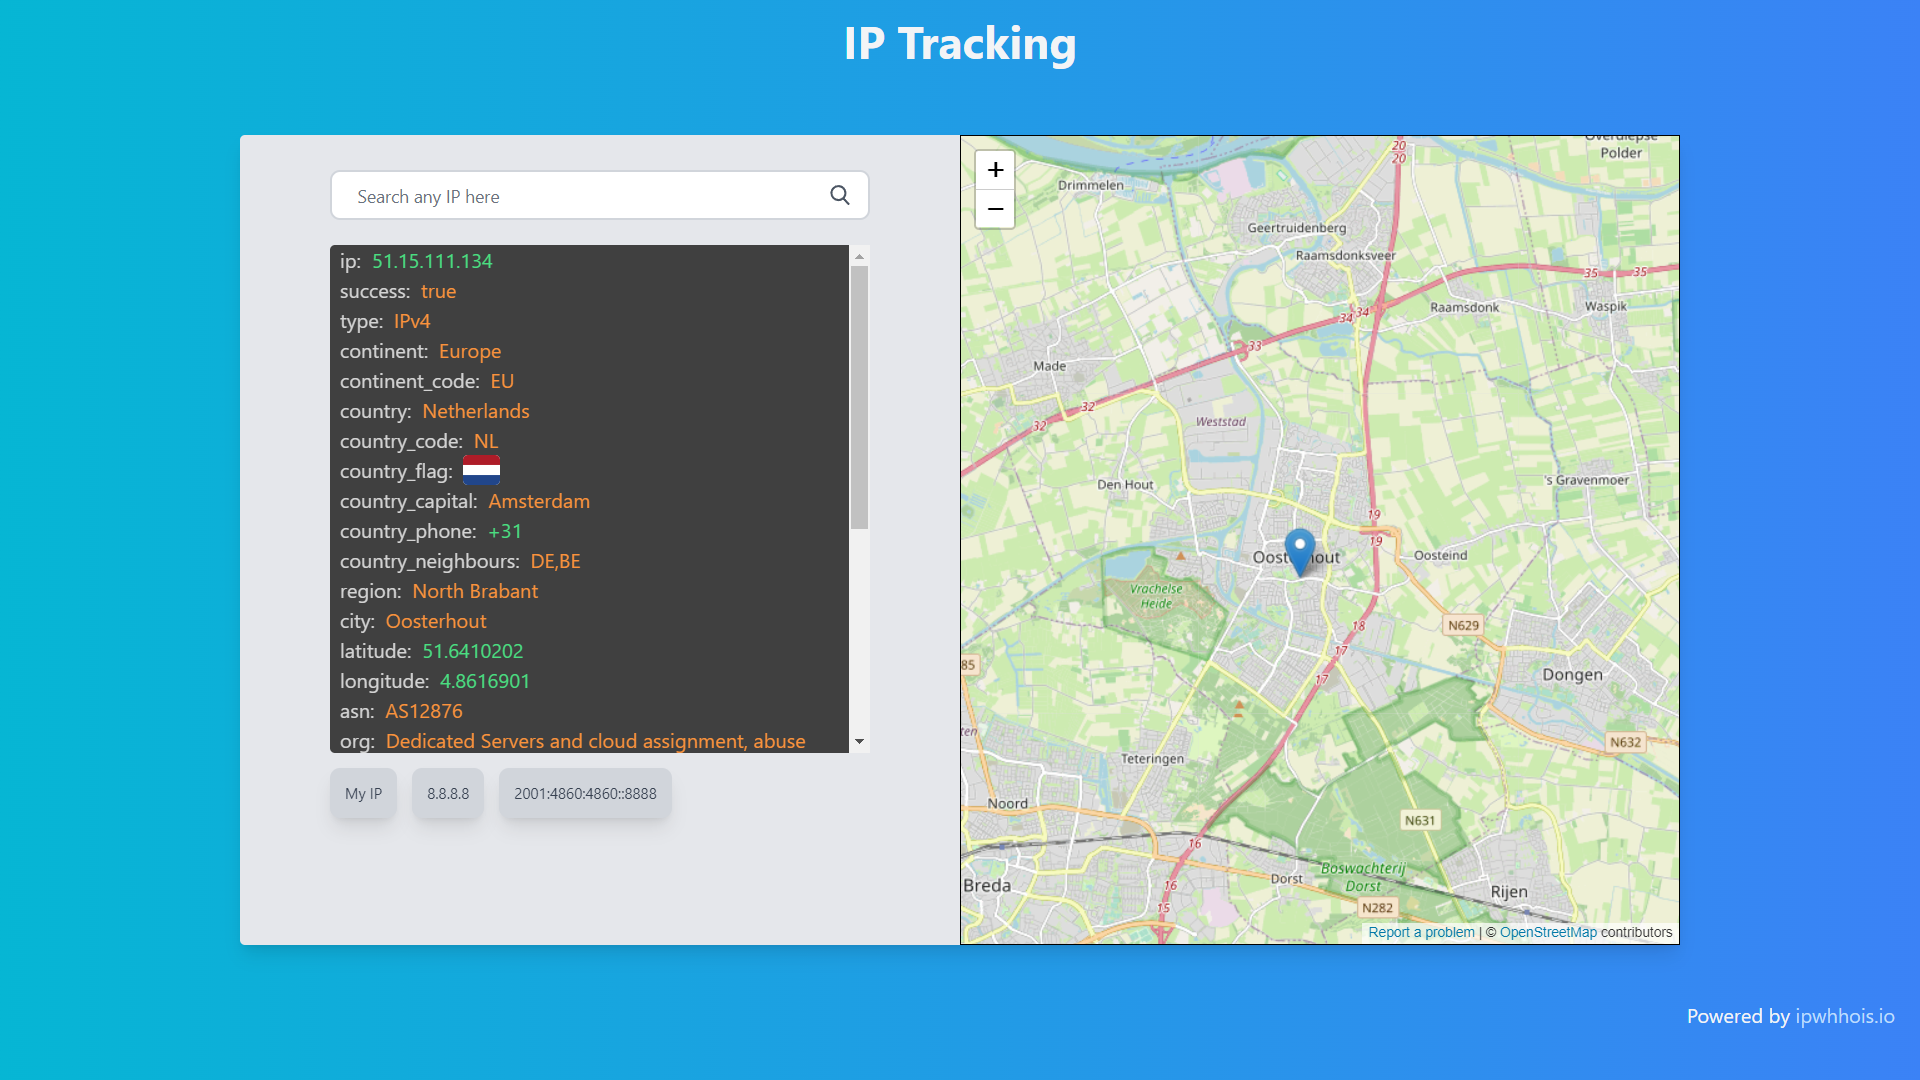
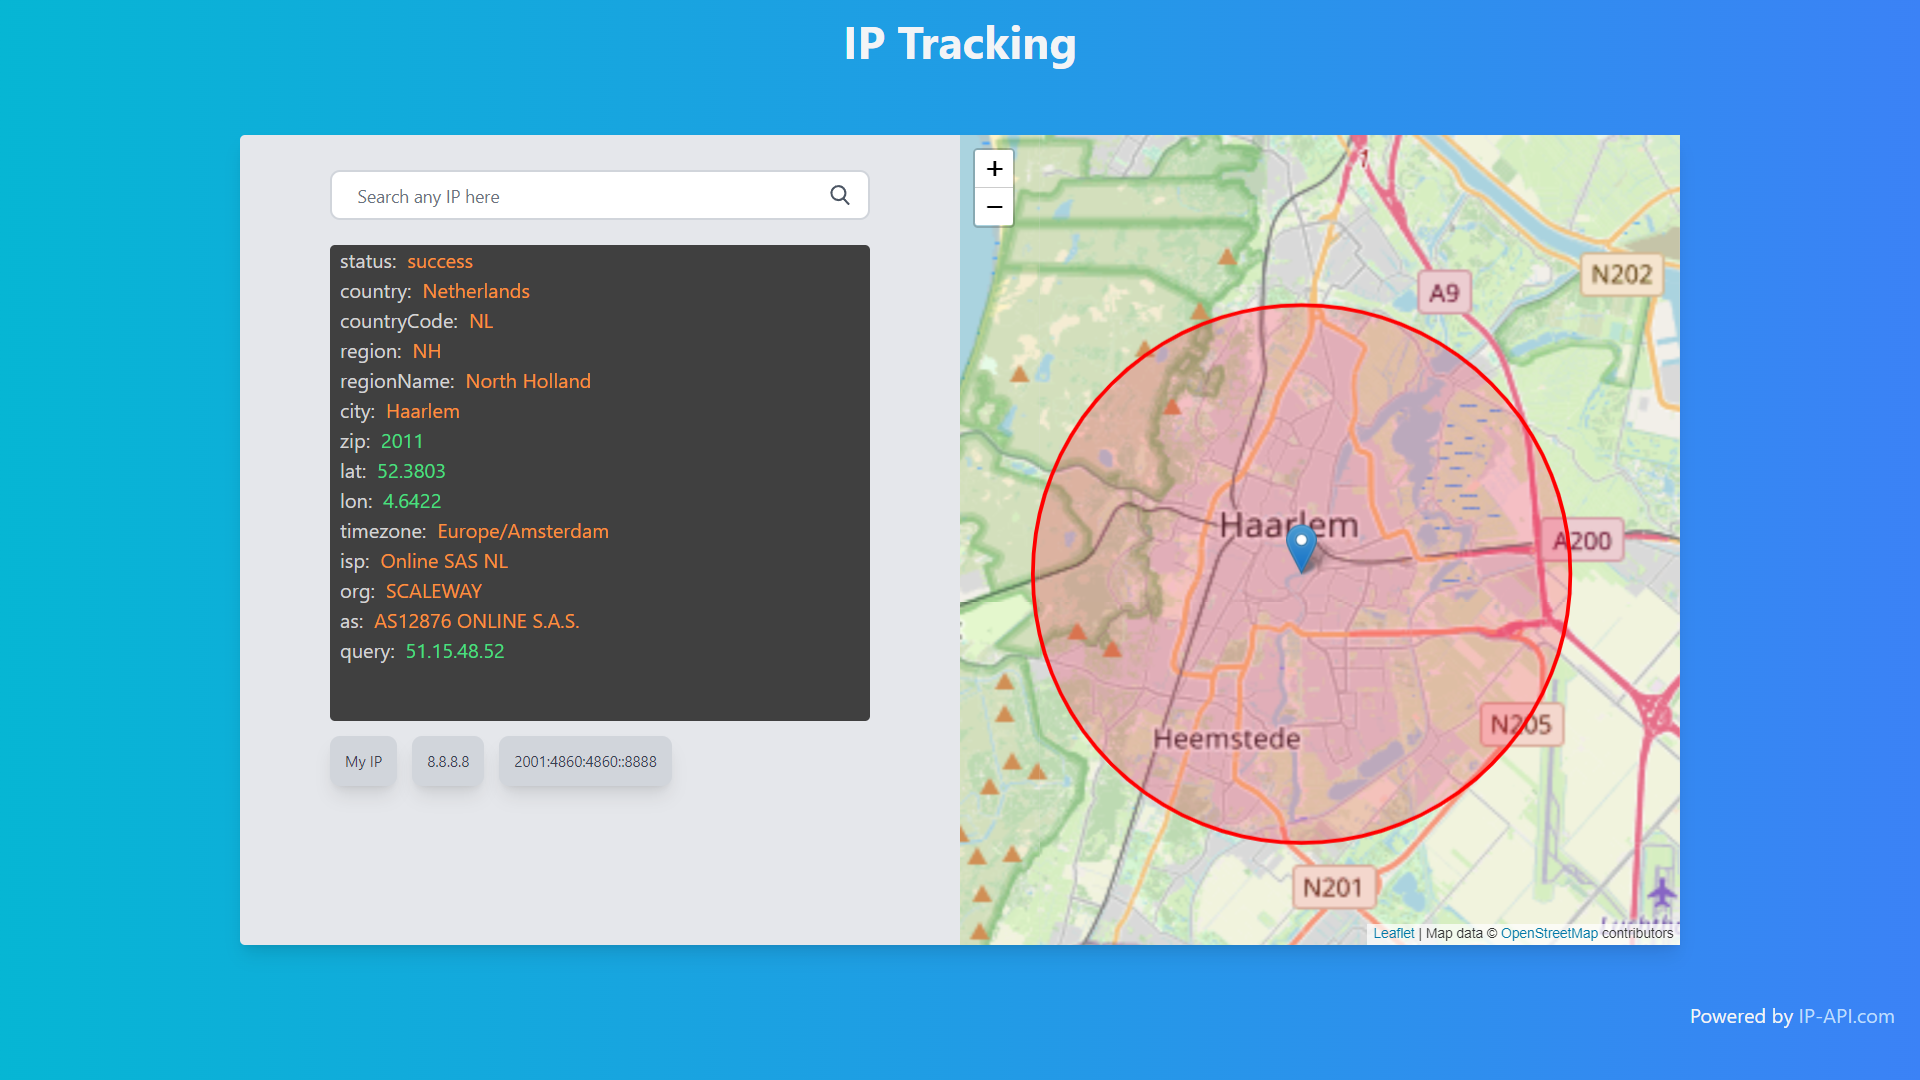
adding leaflet and removing ipwhois

Changed region(s): [[0.5, 0.1222, 0.875, 0.8861], [0.1562, 0.2139, 0.4688, 0.7639], [0.875, 0.9167, 1.0, 0.9472]]

diff --git a/src/views/HomeView.vue b/src/views/HomeView.vue
@@ -1,32 +1,49 @@
 <script setup>
 import { ref } from "vue";
+import L from "leaflet";
 
 let searchInput = ref("");
 let datas = ref("");
 let loading = ref(false);
-let longitude = ref("");
-let latitude = ref("");
 
 async function getData() {
   loading.value = true
-  const respone =  await fetch(`http://ipwhois.app/json/${searchInput.value}`, {
+  const respone =  await fetch(`http://ip-api.com/json/${searchInput.value}`, {
     method: "GET",
   })
   const data = await respone.json();
-  // console.log(data.longitude);
-  longitude.value = data.longitude;
-  latitude.value = data.latitude;
   datas.value = data;
   loading.value = false;
+
+  // MAP
+  mapFunc(data.lat, data.lon);
 }
 getData();
+
+function mapFunc(lat,lon){
+  var map = L.map('map').setView([lat,lon], 12);
+  // https://leafletjs.com/SlavaUkraini/reference.html#tilelayer
+  L.tileLayer('https://tile.openstreetmap.org/{z}/{x}/{y}.png', {
+    attribution: 'Map data &copy; <a href="https://www.openstreetmap.org/copyright">OpenStreetMap</a> contributors',
+    tileSize: 512,
+    zoomOffset: -1,
+  }).addTo(map);
+  var marker = L.marker([lat,lon]).addTo(map);
+  var circle = L.circle([lat,lon], {
+    color: 'red',
+    fillColor: '#f03',
+    fillOpacity: 0.2,
+    radius: 5000
+  }).addTo(map);
+}
 
 function btnGetdata(value){
   searchInput.value = value;
   getData();
 }
-// number or string mybe
-const apiitems = ["ip", "country_phone", "latitude", "longitude", "timezone_dstOffset", "timezone_gmtOffset", "currency_rates", "completed_requests"];
+
+// Checking data from json
+const apiitems = ["lat", "lon", "zip", "query", ];
 function outputCheck(item) {
   for (let index = 0; index < apiitems.length; index++) {
     if (item === apiitems[index]) {
@@ -36,13 +53,12 @@ function outputCheck(item) {
 }
 
 </script>
-
 <template>
-  <div class="flex justify-center items-center h-screen w-screen bg-gradient-to-r from-cyan-500 to-blue-500"> <!-- parent div -->
-    <div class="w-3/4 h-3/4 flex bg-gray-200 rounded shadow-lg"> <!-- centered div -->
-         <!-- LEFT DIV -->
-        <div class="grid  w-2/4">
-            <!-- Search input https://tailwindcomponents.com/component/search-bar -->
+    <div class="flex justify-center items-center h-screen w-screen bg-gradient-to-r from-cyan-500 to-blue-500"> <!-- parent div -->
+        <div class="w-3/4 h-3/4 flex bg-gray-200 rounded shadow-lg"> <!-- centered div -->
+            <!-- LEFT DIV -->
+            <div class="grid  w-2/4">
+                <!-- Search input https://tailwindcomponents.com/component/search-bar -->
                 <div class="pt-2 relative mx-auto mt-5 text-gray-600 w-3/4 h-3/5">
                   <input class="border-2 border-gray-300 bg-white h-10 px-5 pr-16 w-full rounded-lg text-sm focus:outline-none"
                   type="search" name="search" placeholder="Search any IP here" v-model="searchInput" >
@@ -56,10 +72,7 @@ function outputCheck(item) {
                     </svg>
                   </button>
                   <!-- OUTPUT -->
-                  <div class="bg-neutral-700 w-full sm:h-1/5 md:h-2/5 lg:h-3/5 xl:h-4/5 mt-5 rounded mx-auto my-auto overflow-auto" v-bind:class="{'animate-pulse' : loading, 'a' : !loading}">
-                    <!-- <div class="w-full h-full bg-white" >
-                      <img src="https://cutewallpaper.org/21/loading-gif-transparent-background/Update-throbber-icon-in-Seven-theme-2775725-Drupalorg.gif" width="400" alt="loading image">
-                    </div> -->
+                  <div class="bg-neutral-700 w-full sm:h-1/5 md:h-2/5 lg:h-3/5 xl:h-full mt-5 rounded mx-auto my-auto overflow-auto" v-bind:class="{'animate-pulse' : loading, 'a' : !loading}">
                     <div class="" v-if="loading === true">
                     <ul>
                       <li v-for="index in 15">
@@ -70,16 +83,19 @@ function outputCheck(item) {
                     <div class="" v-else>
                       <ul class="ml-2">
                         <li v-for="(data, index) in datas">
-                          <span v-if="index === 'country_flag'">
+                        <!-- If api return empty string -->
+                          <span v-if="data === ''">
                             <div class="flex">
-                              <p class="text-neutral-300">{{index}}: </p> <img class="rounded ml-2" :src="data" alt="country flag" width="30" height="10">
+                                <p class="text-neutral-300">{{index}}: </p><p class="text-orange-400">&nbsp -</p>    
                             </div>
                           </span>
+                          <!-- Number -->
                           <span v-else-if="outputCheck(index)">
                             <div class="flex">
                               <p class="text-neutral-300">{{index}}: </p><p class="text-green-400">&nbsp {{data}}</p>
                             </div>
                           </span>
+                          <!-- Else -->
                           <span v-else>
                             <div class="flex">
                               <p class="text-neutral-300">{{index}}: </p><p class="text-orange-400">&nbsp {{data}}</p>
@@ -99,20 +115,14 @@ function outputCheck(item) {
 
         <!-- RIGHT DIV -->
         <div class="w-2/4 flex justify-center items-center">
-            <div class="w-full h-full">
-                <iframe frameborder="0" scrolling="no" marginheight="0" marginwidth="0" :src="`https://www.openstreetmap.org/export/embed.html?bbox=${longitude}%2C${latitude}%2C${longitude}%2C${latitude}&amp;layer=mapnik&amp;marker=${latitude}%2C${longitude}`" style="border: 1px solid black; width: 100%; height: 100%;"></iframe>
-                <!-- hmmmmmm zoom : https://help.openstreetmap.org/questions/20335/embedded-html-displays-zoomed-out -->
-            </div>
+            <div id="map" class="w-full h-full"></div>
         </div>
     </div>
         <div class="absolute inset-x-0 top-0 h-16 flex justify-center items-center">
            <span class="inline-block align-middle text-4xl text-gray-100 font-bold">IP Tracking</span>
         </div>
        <div class="absolute bottom-0 right-0 h-16 w-100 mr-5 text-gray-100">
-         <span>
-           Powered by <a class="text-blue-200" href="https://ipwhois.io/" target="_blank">ipwhhois.io</a>
-         </span>
+           <span>Powered by <a class="text-blue-200" href="https://ip-api.com/" target="_blank">IP-API.com</a></span>
         </div>
     </div>
-   
 </template>

diff --git a/index.html b/index.html
@@ -2,12 +2,18 @@
 <html lang="en">
   <head>
     <meta charset="UTF-8" />
-    <link rel="icon" href="https://cdn.discordapp.com/attachments/940834033825349653/952499923176284220/map-location.png" />
+    <link rel="icon" href="/src/assets/icon.svg">
     <meta name="viewport" content="width=device-width, initial-scale=1.0" />
     <title>IP Tracking</title>
+    <link rel="stylesheet" href="https://unpkg.com/leaflet@1.4.0/dist/leaflet.css"
+    integrity="sha512-puBpdR0798OZvTTbP4A8Ix/l+A4dHDD0DGqYW6RQ+9jxkRFclaxxQb/SJAWZfWAkuyeQUytO7+7N4QKrDh+drA=="
+    crossorigin="">
   </head>
   <body>
     <div id="app"></div>
     <script type="module" src="/src/main.js"></script>
+    <script src="https://unpkg.com/leaflet@1.4.0/dist/leaflet.js"
+    integrity="sha512-QVftwZFqvtRNi0ZyCtsznlKSWOStnDORoefr1enyq5mVL4tmKB3S/EnC3rRJcxCPavG10IcrVGSmPh6Qw5lwrg=="
+    crossorigin=""></script>
   </body>
 </html>

diff --git a/src/views/NotFoundView.vue b/src/views/NotFoundView.vue
@@ -1,7 +1,10 @@
-<script setup>
-
+<script>
+export default {
+    created(){
+        document.title = "IP Tracking - 404"
+    }
+  }
 </script>
-
 <template>
     <div class="flex items-center justify-center w-screen h-screen bg-gradient-to-r from-cyan-500 to-blue-500">
         <div class="px-40 py-20 bg-white rounded-md shadow-xl">

diff --git a/README.md b/README.md
@@ -1,13 +1,8 @@
 # IP Tracking - VUE
-This is a IP Tracking project that developed in Vue 3 and Vite.
+This is a IP Tracking project that developed in Vue 3 and Vite. Powered by [IP-API.com](https://ip-api.com/), [Leaflet](https://leafletjs.com/) and [OpenStreetMap](https://www.openstreetmap.org/)
 
-## Note
-This project has 2 HomeView which uses a different API.
-
-## Screenshot
-HomeView ( Lots of information but less accurate ) [ipwhois.io](https://ipwhois.io/)
+## Screenshots
+HomeView
 ![HomeView Screenshot](https://github.com/BagoesPantera/ip-tracking-vue/blob/main/Screenshot/HomeView.png?raw=true)
-HomeView2 ( Less information but more Accurate ) [IP-API.com](https://ip-api.com/)
-![Homeview2 screenshot](https://github.com/BagoesPantera/ip-tracking-vue/blob/main/Screenshot/HomeView2.png?raw=true)
 NotFoundPage
 ![Not found page screenshot](https://github.com/BagoesPantera/ip-tracking-vue/blob/main/Screenshot/NotFoundPage.png?raw=true)
